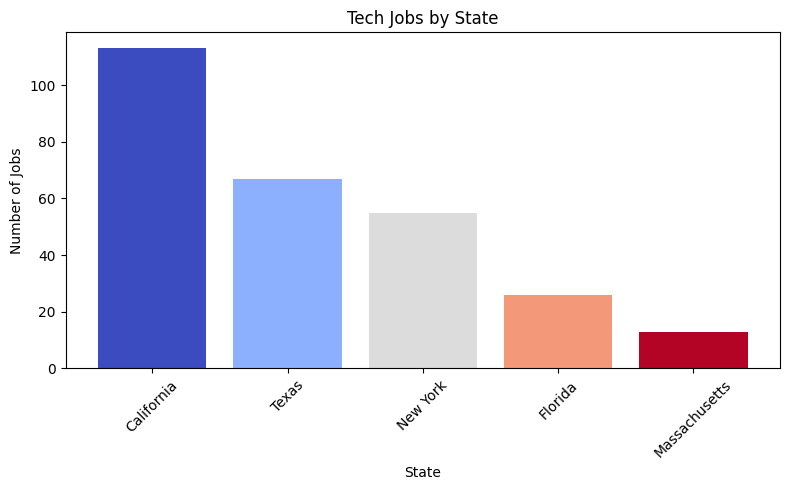
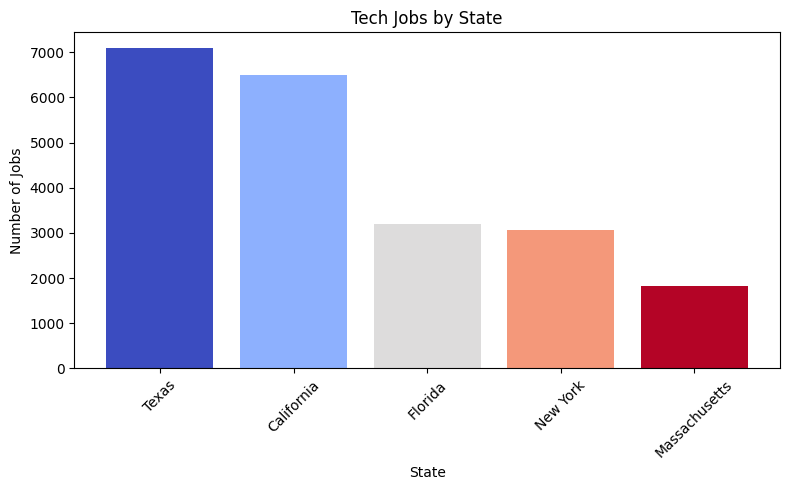
Built site for gh-pages

diff --git a/geographic_analysis.html b/geographic_analysis.html
@@ -381,15 +381,15 @@ only showing top 5 rows
 <pre><code>['ID', 'LAST_UPDATED_DATE', 'LAST_UPDATED_TIMESTAMP', 'DUPLICATES', 'POSTED', 'EXPIRED', 'DURATION', 'SOURCE_TYPES', 'SOURCES', 'URL', 'ACTIVE_URLS', 'ACTIVE_SOURCES_INFO', 'TITLE_RAW', 'BODY', 'MODELED_EXPIRED', 'MODELED_DURATION', 'COMPANY', 'COMPANY_NAME', 'COMPANY_RAW', 'COMPANY_IS_STAFFING', 'EDUCATION_LEVELS', 'EDUCATION_LEVELS_NAME', 'MIN_EDULEVELS', 'MIN_EDULEVELS_NAME', 'MAX_EDULEVELS', 'MAX_EDULEVELS_NAME', 'EMPLOYMENT_TYPE', 'EMPLOYMENT_TYPE_NAME', 'MIN_YEARS_EXPERIENCE', 'MAX_YEARS_EXPERIENCE', 'IS_INTERNSHIP', 'SALARY', 'REMOTE_TYPE', 'REMOTE_TYPE_NAME', 'ORIGINAL_PAY_PERIOD', 'SALARY_TO', 'SALARY_FROM', 'LOCATION', 'CITY', 'CITY_NAME', 'COUNTY', 'COUNTY_NAME', 'MSA', 'MSA_NAME', 'STATE', 'STATE_NAME', 'COUNTY_OUTGOING', 'COUNTY_NAME_OUTGOING', 'COUNTY_INCOMING', 'COUNTY_NAME_INCOMING', 'MSA_OUTGOING', 'MSA_NAME_OUTGOING', 'MSA_INCOMING', 'MSA_NAME_INCOMING', 'NAICS2', 'NAICS2_NAME', 'NAICS3', 'NAICS3_NAME', 'NAICS4', 'NAICS4_NAME', 'NAICS5', 'NAICS5_NAME', 'NAICS6', 'NAICS6_NAME', 'TITLE', 'TITLE_NAME', 'TITLE_CLEAN', 'SKILLS', 'SKILLS_NAME', 'SPECIALIZED_SKILLS', 'SPECIALIZED_SKILLS_NAME', 'CERTIFICATIONS', 'CERTIFICATIONS_NAME', 'COMMON_SKILLS', 'COMMON_SKILLS_NAME', 'SOFTWARE_SKILLS', 'SOFTWARE_SKILLS_NAME', 'ONET', 'ONET_NAME', 'ONET_2019', 'ONET_2019_NAME', 'CIP6', 'CIP6_NAME', 'CIP4', 'CIP4_NAME', 'CIP2', 'CIP2_NAME', 'SOC_2021_2', 'SOC_2021_2_NAME', 'SOC_2021_3', 'SOC_2021_3_NAME', 'SOC_2021_4', 'SOC_2021_4_NAME', 'SOC_2021_5', 'SOC_2021_5_NAME', 'LOT_CAREER_AREA', 'LOT_CAREER_AREA_NAME', 'LOT_OCCUPATION', 'LOT_OCCUPATION_NAME', 'LOT_SPECIALIZED_OCCUPATION', 'LOT_SPECIALIZED_OCCUPATION_NAME', 'LOT_OCCUPATION_GROUP', 'LOT_OCCUPATION_GROUP_NAME', 'LOT_V6_SPECIALIZED_OCCUPATION', 'LOT_V6_SPECIALIZED_OCCUPATION_NAME', 'LOT_V6_OCCUPATION', 'LOT_V6_OCCUPATION_NAME', 'LOT_V6_OCCUPATION_GROUP', 'LOT_V6_OCCUPATION_GROUP_NAME', 'LOT_V6_CAREER_AREA', 'LOT_V6_CAREER_AREA_NAME', 'SOC_2', 'SOC_2_NAME', 'SOC_3', 'SOC_3_NAME', 'SOC_4', 'SOC_4_NAME', 'SOC_5', 'SOC_5_NAME', 'LIGHTCAST_SECTORS', 'LIGHTCAST_SECTORS_NAME', 'NAICS_2022_2', 'NAICS_2022_2_NAME', 'NAICS_2022_3', 'NAICS_2022_3_NAME', 'NAICS_2022_4', 'NAICS_2022_4_NAME', 'NAICS_2022_5', 'NAICS_2022_5_NAME', 'NAICS_2022_6', 'NAICS_2022_6_NAME']</code></pre>
 </div>
 </div>
-<div id="cell-3" class="cell" data-execution_count="33">
+<div id="cell-3" class="cell" data-execution_count="67">
 <div class="sourceCode cell-code" id="cb9"><pre class="sourceCode python code-with-copy"><code class="sourceCode python"><span id="cb9-1"><a href="#cb9-1" aria-hidden="true" tabindex="-1"></a><span class="co"># Filter for Boston, MA and Austin, TX</span></span>
 <span id="cb9-2"><a href="#cb9-2" aria-hidden="true" tabindex="-1"></a>selected_state <span class="op">=</span> [<span class="st">'California'</span>, <span class="st">'Florida'</span>, <span class="st">'Massachusetts'</span>, <span class="st">'Texas'</span>, <span class="st">'New York'</span>]</span>
 <span id="cb9-3"><a href="#cb9-3" aria-hidden="true" tabindex="-1"></a>filtered_df <span class="op">=</span> df[df[<span class="st">'STATE_NAME'</span>].isin(selected_state)]</span>
 <span id="cb9-4"><a href="#cb9-4" aria-hidden="true" tabindex="-1"></a></span>
 <span id="cb9-5"><a href="#cb9-5" aria-hidden="true" tabindex="-1"></a><span class="co"># Further filter for NAICS_2022_6 = 518210 and show relevant columns</span></span>
-<span id="cb9-6"><a href="#cb9-6" aria-hidden="true" tabindex="-1"></a>final_df <span class="op">=</span> filtered_df[filtered_df[<span class="st">'NAICS_2022_6'</span>] <span class="op">==</span> <span class="dv">518210</span>]</span>
+<span id="cb9-6"><a href="#cb9-6" aria-hidden="true" tabindex="-1"></a>final_df <span class="op">=</span> filtered_df[filtered_df[<span class="st">'LOT_SPECIALIZED_OCCUPATION_NAME'</span>].<span class="bu">str</span>.contains(<span class="st">'analyst'</span>, case<span class="op">=</span><span class="va">False</span>, na<span class="op">=</span><span class="va">False</span>)]</span>
 <span id="cb9-7"><a href="#cb9-7" aria-hidden="true" tabindex="-1"></a>final_df[[<span class="st">'STATE_NAME'</span>, <span class="st">'NAICS2_NAME'</span>, <span class="st">'NAICS_2022_6'</span>, <span class="st">'LOT_SPECIALIZED_OCCUPATION_NAME'</span>]].head(<span class="dv">100</span>)</span></code><button title="Copy to Clipboard" class="code-copy-button"><i class="bi"></i></button></pre></div>
-<div class="cell-output cell-output-display" data-execution_count="33">
+<div class="cell-output cell-output-display" data-execution_count="67">
 <div>
 
 
@@ -405,39 +405,39 @@ only showing top 5 rows
 </thead>
 <tbody>
 <tr class="odd">
-<td data-quarto-table-cell-role="th">209</td>
-<td>Florida</td>
-<td>Information</td>
-<td>518210.0</td>
+<td data-quarto-table-cell-role="th">2</td>
+<td>Texas</td>
+<td>Finance and Insurance</td>
+<td>524291.0</td>
 <td>Data Analyst</td>
 </tr>
 <tr class="even">
-<td data-quarto-table-cell-role="th">408</td>
-<td>New York</td>
-<td>Information</td>
-<td>518210.0</td>
+<td data-quarto-table-cell-role="th">4</td>
+<td>California</td>
+<td>Unclassified Industry</td>
+<td>999999.0</td>
 <td>Oracle Consultant / Analyst</td>
 </tr>
 <tr class="odd">
-<td data-quarto-table-cell-role="th">472</td>
-<td>Texas</td>
-<td>Information</td>
-<td>518210.0</td>
-<td>SAP Analyst / Admin</td>
+<td data-quarto-table-cell-role="th">9</td>
+<td>New York</td>
+<td>Professional, Scientific, and Technical Services</td>
+<td>541511.0</td>
+<td>Data Analyst</td>
 </tr>
 <tr class="even">
-<td data-quarto-table-cell-role="th">672</td>
-<td>Florida</td>
-<td>Information</td>
-<td>518210.0</td>
+<td data-quarto-table-cell-role="th">10</td>
+<td>California</td>
+<td>Wholesale Trade</td>
+<td>423830.0</td>
 <td>Data Analyst</td>
 </tr>
 <tr class="odd">
-<td data-quarto-table-cell-role="th">846</td>
-<td>Texas</td>
-<td>Information</td>
-<td>518210.0</td>
-<td>General ERP Analyst / Consultant</td>
+<td data-quarto-table-cell-role="th">15</td>
+<td>Massachusetts</td>
+<td>Educational Services</td>
+<td>611310.0</td>
+<td>Data Analyst</td>
 </tr>
 <tr class="even">
 <td data-quarto-table-cell-role="th">...</td>
@@ -447,39 +447,39 @@ only showing top 5 rows
 <td>...</td>
 </tr>
 <tr class="odd">
-<td data-quarto-table-cell-role="th">23000</td>
+<td data-quarto-table-cell-role="th">294</td>
 <td>Florida</td>
-<td>Information</td>
-<td>518210.0</td>
-<td>Enterprise Architect</td>
+<td>Educational Services</td>
+<td>611310.0</td>
+<td>SAP Analyst / Admin</td>
 </tr>
 <tr class="even">
-<td data-quarto-table-cell-role="th">23288</td>
+<td data-quarto-table-cell-role="th">295</td>
 <td>California</td>
-<td>Information</td>
-<td>518210.0</td>
-<td>Data Quality Analyst</td>
+<td>Finance and Insurance</td>
+<td>524114.0</td>
+<td>Data Analyst</td>
 </tr>
 <tr class="odd">
-<td data-quarto-table-cell-role="th">23437</td>
-<td>Texas</td>
-<td>Information</td>
-<td>518210.0</td>
+<td data-quarto-table-cell-role="th">296</td>
+<td>New York</td>
+<td>Unclassified Industry</td>
+<td>999999.0</td>
 <td>General ERP Analyst / Consultant</td>
 </tr>
 <tr class="even">
-<td data-quarto-table-cell-role="th">23479</td>
+<td data-quarto-table-cell-role="th">297</td>
 <td>Texas</td>
-<td>Information</td>
-<td>518210.0</td>
-<td>Data Analyst</td>
+<td>Professional, Scientific, and Technical Services</td>
+<td>541611.0</td>
+<td>SAP Analyst / Admin</td>
 </tr>
 <tr class="odd">
-<td data-quarto-table-cell-role="th">23661</td>
-<td>California</td>
-<td>Information</td>
-<td>518210.0</td>
-<td>Data Analyst</td>
+<td data-quarto-table-cell-role="th">299</td>
+<td>Texas</td>
+<td>Professional, Scientific, and Technical Services</td>
+<td>541511.0</td>
+<td>General ERP Analyst / Consultant</td>
 </tr>
 </tbody>
 </table>
@@ -488,7 +488,7 @@ only showing top 5 rows
 </div>
 </div>
 </div>
-<div id="cell-4" class="cell" data-execution_count="56">
+<div id="cell-4" class="cell" data-execution_count="68">
 <div class="sourceCode cell-code" id="cb10"><pre class="sourceCode python code-with-copy"><code class="sourceCode python"><span id="cb10-1"><a href="#cb10-1" aria-hidden="true" tabindex="-1"></a><span class="im">import</span> matplotlib.pyplot <span class="im">as</span> plt</span>
 <span id="cb10-2"><a href="#cb10-2" aria-hidden="true" tabindex="-1"></a><span class="im">import</span> numpy <span class="im">as</span> np</span>
 <span id="cb10-3"><a href="#cb10-3" aria-hidden="true" tabindex="-1"></a></span>
@@ -516,69 +516,22 @@ only showing top 5 rows
 </div>
 </div>
 </div>
-<div id="cell-5" class="cell" data-execution_count="57">
-<div class="sourceCode cell-code" id="cb11"><pre class="sourceCode python code-with-copy"><code class="sourceCode python"><span id="cb11-1"><a href="#cb11-1" aria-hidden="true" tabindex="-1"></a>columns_to_drop <span class="op">=</span> [</span>
-<span id="cb11-2"><a href="#cb11-2" aria-hidden="true" tabindex="-1"></a>    <span class="st">"ID"</span>, <span class="st">"URL"</span>, <span class="st">"ACTIVE_URLS"</span>, <span class="st">"DUPLICATES"</span>, <span class="st">"LAST_UPDATED_TIMESTAMP"</span>,</span>
-<span id="cb11-3"><a href="#cb11-3" aria-hidden="true" tabindex="-1"></a>    <span class="st">"NAICS2"</span>, <span class="st">"NAICS3"</span>, <span class="st">"NAICS4"</span>, <span class="st">"NAICS5"</span>, <span class="st">"NAICS6"</span>,</span>
-<span id="cb11-4"><a href="#cb11-4" aria-hidden="true" tabindex="-1"></a>    <span class="st">"SOC_2"</span>, <span class="st">"SOC_3"</span>, <span class="st">"SOC_5"</span></span>
-<span id="cb11-5"><a href="#cb11-5" aria-hidden="true" tabindex="-1"></a>]</span>
-<span id="cb11-6"><a href="#cb11-6" aria-hidden="true" tabindex="-1"></a>df.drop(columns<span class="op">=</span>columns_to_drop, inplace<span class="op">=</span><span class="va">True</span>)</span></code><button title="Copy to Clipboard" class="code-copy-button"><i class="bi"></i></button></pre></div>
+<div id="cell-5" class="cell" data-execution_count="71">
+<div class="sourceCode cell-code" id="cb11"><pre class="sourceCode python code-with-copy"><code class="sourceCode python"><span id="cb11-1"><a href="#cb11-1" aria-hidden="true" tabindex="-1"></a><span class="co"># Print the total count of 'analyst' in LOT_SPECIALIZED_OCCUPATION_NAME</span></span>
+<span id="cb11-2"><a href="#cb11-2" aria-hidden="true" tabindex="-1"></a>analyst_count <span class="op">=</span> final_df.shape[<span class="dv">0</span>]</span>
+<span id="cb11-3"><a href="#cb11-3" aria-hidden="true" tabindex="-1"></a><span class="bu">print</span>(<span class="ss">f"Total count of 'analyst' in LOT_SPECIALIZED_OCCUPATION_NAME: </span><span class="sc">{</span>analyst_count<span class="sc">}</span><span class="ss">"</span>)columns_to_drop <span class="op">=</span> [</span>
+<span id="cb11-4"><a href="#cb11-4" aria-hidden="true" tabindex="-1"></a>    <span class="st">"ID"</span>, <span class="st">"URL"</span>, <span class="st">"ACTIVE_URLS"</span>, <span class="st">"DUPLICATES"</span>, <span class="st">"LAST_UPDATED_TIMESTAMP"</span>,</span>
+<span id="cb11-5"><a href="#cb11-5" aria-hidden="true" tabindex="-1"></a>    <span class="st">"NAICS2"</span>, <span class="st">"NAICS3"</span>, <span class="st">"NAICS4"</span>, <span class="st">"NAICS5"</span>, <span class="st">"NAICS6"</span>,</span>
+<span id="cb11-6"><a href="#cb11-6" aria-hidden="true" tabindex="-1"></a>    <span class="st">"SOC_2"</span>, <span class="st">"SOC_3"</span>, <span class="st">"SOC_5"</span></span>
+<span id="cb11-7"><a href="#cb11-7" aria-hidden="true" tabindex="-1"></a>]</span>
+<span id="cb11-8"><a href="#cb11-8" aria-hidden="true" tabindex="-1"></a>df.drop(columns<span class="op">=</span>columns_to_drop, inplace<span class="op">=</span><span class="va">True</span>)</span></code><button title="Copy to Clipboard" class="code-copy-button"><i class="bi"></i></button></pre></div>
 <div class="cell-output cell-output-error">
 <div class="ansi-escaped-output">
-<pre><span class="ansi-red-fg">---------------------------------------------------------------------------</span>
-<span class="ansi-red-fg">KeyError</span>                                  Traceback (most recent call last)
-<span class="ansi-cyan-fg">Cell</span><span class="ansi-cyan-fg"> </span><span class="ansi-green-fg">In[57]</span><span class="ansi-green-fg">, line 6</span>
-<span class="ansi-green-fg">      1</span> columns_to_drop = [
-<span class="ansi-green-fg">      2</span>     <span class="ansi-yellow-fg">"</span><span class="ansi-yellow-fg">ID</span><span class="ansi-yellow-fg">"</span>, <span class="ansi-yellow-fg">"</span><span class="ansi-yellow-fg">URL</span><span class="ansi-yellow-fg">"</span>, <span class="ansi-yellow-fg">"</span><span class="ansi-yellow-fg">ACTIVE_URLS</span><span class="ansi-yellow-fg">"</span>, <span class="ansi-yellow-fg">"</span><span class="ansi-yellow-fg">DUPLICATES</span><span class="ansi-yellow-fg">"</span>, <span class="ansi-yellow-fg">"</span><span class="ansi-yellow-fg">LAST_UPDATED_TIMESTAMP</span><span class="ansi-yellow-fg">"</span>,
-<span class="ansi-green-fg">      3</span>     <span class="ansi-yellow-fg">"</span><span class="ansi-yellow-fg">NAICS2</span><span class="ansi-yellow-fg">"</span>, <span class="ansi-yellow-fg">"</span><span class="ansi-yellow-fg">NAICS3</span><span class="ansi-yellow-fg">"</span>, <span class="ansi-yellow-fg">"</span><span class="ansi-yellow-fg">NAICS4</span><span class="ansi-yellow-fg">"</span>, <span class="ansi-yellow-fg">"</span><span class="ansi-yellow-fg">NAICS5</span><span class="ansi-yellow-fg">"</span>, <span class="ansi-yellow-fg">"</span><span class="ansi-yellow-fg">NAICS6</span><span class="ansi-yellow-fg">"</span>,
-<span class="ansi-green-fg">      4</span>     <span class="ansi-yellow-fg">"</span><span class="ansi-yellow-fg">SOC_2</span><span class="ansi-yellow-fg">"</span>, <span class="ansi-yellow-fg">"</span><span class="ansi-yellow-fg">SOC_3</span><span class="ansi-yellow-fg">"</span>, <span class="ansi-yellow-fg">"</span><span class="ansi-yellow-fg">SOC_5</span><span class="ansi-yellow-fg">"</span>
-<span class="ansi-green-fg">      5</span> ]
-<span class="ansi-green-fg">----&gt; </span><span class="ansi-green-fg">6</span> <span class="ansi-yellow-bg">df</span><span class="ansi-yellow-bg">.</span><span class="ansi-yellow-bg">drop</span><span class="ansi-yellow-bg">(</span><span class="ansi-yellow-bg">columns</span><span class="ansi-yellow-bg">=</span><span class="ansi-yellow-bg">columns_to_drop</span><span class="ansi-yellow-bg">,</span><span class="ansi-yellow-bg"> </span><span class="ansi-yellow-bg">inplace</span><span class="ansi-yellow-bg">=</span><span style="font-weight:bold;color:rgb(0,135,0)" class="ansi-yellow-bg">True</span><span class="ansi-yellow-bg">)</span>
-
-<span class="ansi-cyan-fg">File </span><span class="ansi-green-fg">~/metad688-job-market-analysis-for-summer-2025-group2-4/.venv/lib/python3.12/site-packages/pandas/core/frame.py:5581</span>, in <span class="ansi-cyan-fg">DataFrame.drop</span><span class="ansi-blue-fg">(self, labels, axis, index, columns, level, inplace, errors)</span>
-<span class="ansi-green-fg">   5433</span> <span style="font-weight:bold;color:rgb(0,135,0)">def</span><span style="color:rgb(188,188,188)"> </span><span class="ansi-blue-fg">drop</span>(
-<span class="ansi-green-fg">   5434</span>     <span style="color:rgb(0,135,0)">self</span>,
-<span class="ansi-green-fg">   5435</span>     labels: IndexLabel | <span style="font-weight:bold;color:rgb(0,135,0)">None</span> = <span style="font-weight:bold;color:rgb(0,135,0)">None</span>,
-<span class="ansi-green-fg">   (...)</span><span class="ansi-green-fg">   5442</span>     errors: IgnoreRaise = <span class="ansi-yellow-fg">"</span><span class="ansi-yellow-fg">raise</span><span class="ansi-yellow-fg">"</span>,
-<span class="ansi-green-fg">   5443</span> ) -&gt; DataFrame | <span style="font-weight:bold;color:rgb(0,135,0)">None</span>:
-<span class="ansi-green-fg">   5444</span> <span style="color:rgb(188,188,188)">    </span><span style="font-style:italic" class="ansi-yellow-fg">"""</span>
-<span class="ansi-green-fg">   5445</span> <span style="font-style:italic" class="ansi-yellow-fg">    Drop specified labels from rows or columns.</span>
-<span class="ansi-green-fg">   5446</span> 
-<span class="ansi-green-fg">   (...)</span><span class="ansi-green-fg">   5579</span> <span style="font-style:italic" class="ansi-yellow-fg">            weight  1.0     0.8</span>
-<span class="ansi-green-fg">   5580</span> <span style="font-style:italic" class="ansi-yellow-fg">    """</span>
-<span class="ansi-green-fg">-&gt; </span><span class="ansi-green-fg">5581</span>     <span style="font-weight:bold;color:rgb(0,135,0)">return</span> <span style="color:rgb(0,135,0)" class="ansi-yellow-bg">super</span><span class="ansi-yellow-bg">(</span><span class="ansi-yellow-bg">)</span><span class="ansi-yellow-bg">.</span><span class="ansi-yellow-bg">drop</span><span class="ansi-yellow-bg">(</span>
-<span class="ansi-green-fg">   5582</span> <span class="ansi-yellow-bg">        </span><span class="ansi-yellow-bg">labels</span><span class="ansi-yellow-bg">=</span><span class="ansi-yellow-bg">labels</span><span class="ansi-yellow-bg">,</span>
-<span class="ansi-green-fg">   5583</span> <span class="ansi-yellow-bg">        </span><span class="ansi-yellow-bg">axis</span><span class="ansi-yellow-bg">=</span><span class="ansi-yellow-bg">axis</span><span class="ansi-yellow-bg">,</span>
-<span class="ansi-green-fg">   5584</span> <span class="ansi-yellow-bg">        </span><span class="ansi-yellow-bg">index</span><span class="ansi-yellow-bg">=</span><span class="ansi-yellow-bg">index</span><span class="ansi-yellow-bg">,</span>
-<span class="ansi-green-fg">   5585</span> <span class="ansi-yellow-bg">        </span><span class="ansi-yellow-bg">columns</span><span class="ansi-yellow-bg">=</span><span class="ansi-yellow-bg">columns</span><span class="ansi-yellow-bg">,</span>
-<span class="ansi-green-fg">   5586</span> <span class="ansi-yellow-bg">        </span><span class="ansi-yellow-bg">level</span><span class="ansi-yellow-bg">=</span><span class="ansi-yellow-bg">level</span><span class="ansi-yellow-bg">,</span>
-<span class="ansi-green-fg">   5587</span> <span class="ansi-yellow-bg">        </span><span class="ansi-yellow-bg">inplace</span><span class="ansi-yellow-bg">=</span><span class="ansi-yellow-bg">inplace</span><span class="ansi-yellow-bg">,</span>
-<span class="ansi-green-fg">   5588</span> <span class="ansi-yellow-bg">        </span><span class="ansi-yellow-bg">errors</span><span class="ansi-yellow-bg">=</span><span class="ansi-yellow-bg">errors</span><span class="ansi-yellow-bg">,</span>
-<span class="ansi-green-fg">   5589</span> <span class="ansi-yellow-bg">    </span><span class="ansi-yellow-bg">)</span>
-
-<span class="ansi-cyan-fg">File </span><span class="ansi-green-fg">~/metad688-job-market-analysis-for-summer-2025-group2-4/.venv/lib/python3.12/site-packages/pandas/core/generic.py:4788</span>, in <span class="ansi-cyan-fg">NDFrame.drop</span><span class="ansi-blue-fg">(self, labels, axis, index, columns, level, inplace, errors)</span>
-<span class="ansi-green-fg">   4786</span> <span style="font-weight:bold;color:rgb(0,135,0)">for</span> axis, labels <span style="font-weight:bold;color:rgb(175,0,255)">in</span> axes.items():
-<span class="ansi-green-fg">   4787</span>     <span style="font-weight:bold;color:rgb(0,135,0)">if</span> labels <span style="font-weight:bold;color:rgb(175,0,255)">is</span> <span style="font-weight:bold;color:rgb(175,0,255)">not</span> <span style="font-weight:bold;color:rgb(0,135,0)">None</span>:
-<span class="ansi-green-fg">-&gt; </span><span class="ansi-green-fg">4788</span>         obj = <span class="ansi-yellow-bg">obj</span><span class="ansi-yellow-bg">.</span><span class="ansi-yellow-bg">_drop_axis</span><span class="ansi-yellow-bg">(</span><span class="ansi-yellow-bg">labels</span><span class="ansi-yellow-bg">,</span><span class="ansi-yellow-bg"> </span><span class="ansi-yellow-bg">axis</span><span class="ansi-yellow-bg">,</span><span class="ansi-yellow-bg"> </span><span class="ansi-yellow-bg">level</span><span class="ansi-yellow-bg">=</span><span class="ansi-yellow-bg">level</span><span class="ansi-yellow-bg">,</span><span class="ansi-yellow-bg"> </span><span class="ansi-yellow-bg">errors</span><span class="ansi-yellow-bg">=</span><span class="ansi-yellow-bg">errors</span><span class="ansi-yellow-bg">)</span>
-<span class="ansi-green-fg">   4790</span> <span style="font-weight:bold;color:rgb(0,135,0)">if</span> inplace:
-<span class="ansi-green-fg">   4791</span>     <span style="color:rgb(0,135,0)">self</span>._update_inplace(obj)
-
-<span class="ansi-cyan-fg">File </span><span class="ansi-green-fg">~/metad688-job-market-analysis-for-summer-2025-group2-4/.venv/lib/python3.12/site-packages/pandas/core/generic.py:4830</span>, in <span class="ansi-cyan-fg">NDFrame._drop_axis</span><span class="ansi-blue-fg">(self, labels, axis, level, errors, only_slice)</span>
-<span class="ansi-green-fg">   4828</span>         new_axis = axis.drop(labels, level=level, errors=errors)
-<span class="ansi-green-fg">   4829</span>     <span style="font-weight:bold;color:rgb(0,135,0)">else</span>:
-<span class="ansi-green-fg">-&gt; </span><span class="ansi-green-fg">4830</span>         new_axis = <span class="ansi-yellow-bg">axis</span><span class="ansi-yellow-bg">.</span><span class="ansi-yellow-bg">drop</span><span class="ansi-yellow-bg">(</span><span class="ansi-yellow-bg">labels</span><span class="ansi-yellow-bg">,</span><span class="ansi-yellow-bg"> </span><span class="ansi-yellow-bg">errors</span><span class="ansi-yellow-bg">=</span><span class="ansi-yellow-bg">errors</span><span class="ansi-yellow-bg">)</span>
-<span class="ansi-green-fg">   4831</span>     indexer = axis.get_indexer(new_axis)
-<span class="ansi-green-fg">   4833</span> <span style="font-style:italic;color:rgb(95,135,135)"># Case for non-unique axis</span>
-<span class="ansi-green-fg">   4834</span> <span style="font-weight:bold;color:rgb(0,135,0)">else</span>:
-
-<span class="ansi-cyan-fg">File </span><span class="ansi-green-fg">~/metad688-job-market-analysis-for-summer-2025-group2-4/.venv/lib/python3.12/site-packages/pandas/core/indexes/base.py:7070</span>, in <span class="ansi-cyan-fg">Index.drop</span><span class="ansi-blue-fg">(self, labels, errors)</span>
-<span class="ansi-green-fg">   7068</span> <span style="font-weight:bold;color:rgb(0,135,0)">if</span> mask.any():
-<span class="ansi-green-fg">   7069</span>     <span style="font-weight:bold;color:rgb(0,135,0)">if</span> errors != <span class="ansi-yellow-fg">"</span><span class="ansi-yellow-fg">ignore</span><span class="ansi-yellow-fg">"</span>:
-<span class="ansi-green-fg">-&gt; </span><span class="ansi-green-fg">7070</span>         <span style="font-weight:bold;color:rgb(0,135,0)">raise</span> <span style="font-weight:bold;color:rgb(215,95,95)">KeyError</span>(<span class="ansi-yellow-fg">f</span><span class="ansi-yellow-fg">"</span><span style="font-weight:bold;color:rgb(175,95,135)">{</span>labels[mask].tolist()<span style="font-weight:bold;color:rgb(175,95,135)">}</span><span class="ansi-yellow-fg"> not found in axis</span><span class="ansi-yellow-fg">"</span>)
-<span class="ansi-green-fg">   7071</span>     indexer = indexer[~mask]
-<span class="ansi-green-fg">   7072</span> <span style="font-weight:bold;color:rgb(0,135,0)">return</span> <span style="color:rgb(0,135,0)">self</span>.delete(indexer)
-
-<span class="ansi-red-fg">KeyError</span>: "['ID', 'URL', 'ACTIVE_URLS', 'DUPLICATES', 'LAST_UPDATED_TIMESTAMP', 'NAICS2', 'NAICS3', 'NAICS4', 'NAICS5', 'NAICS6', 'SOC_2', 'SOC_3', 'SOC_5'] not found in axis"</pre>
+<pre>  <span class="ansi-cyan-fg">Cell</span><span class="ansi-cyan-fg"> </span><span class="ansi-green-fg">In[71]</span><span class="ansi-green-fg">, line 3</span>
+<span class="ansi-red-fg">    </span><span class="ansi-red-fg">print(f"Total count of 'analyst' in LOT_SPECIALIZED_OCCUPATION_NAME: {analyst_count}")columns_to_drop = [</span>
+                                                                                          ^
+<span class="ansi-red-fg">SyntaxError</span><span class="ansi-red-fg">:</span> invalid syntax
+</pre>
 </div>
 </div>
 </div>
